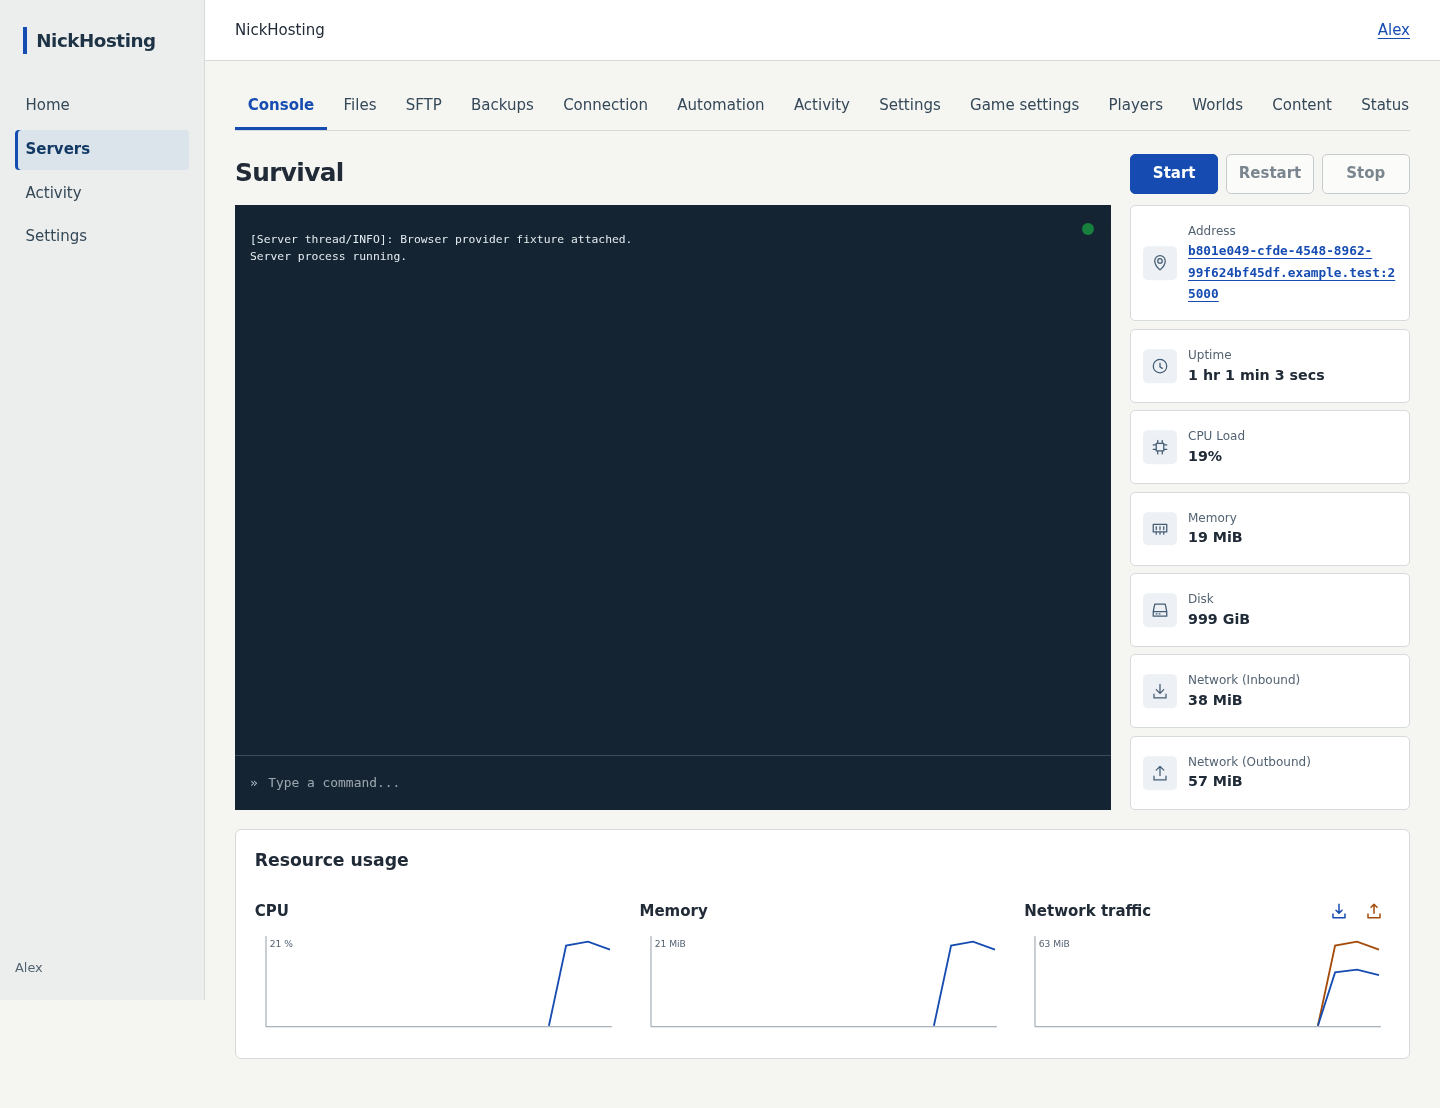
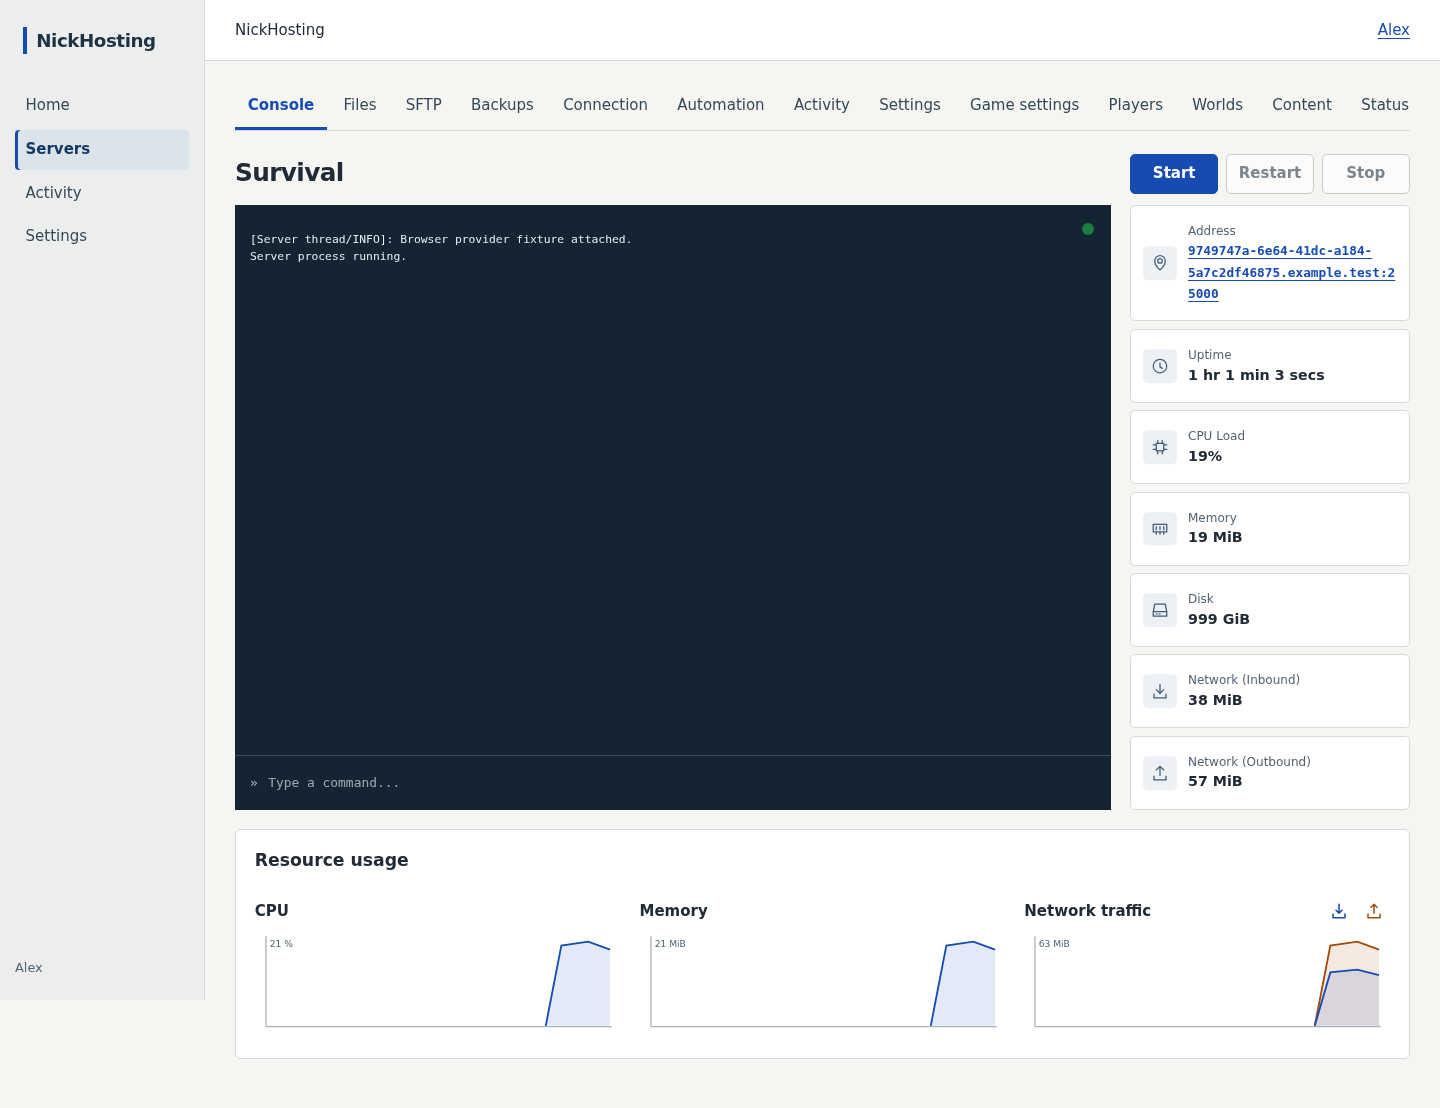
feat(web): shade chart areas and record power dispatch timings

diff --git a/apps/web/src/features/console.tsx b/apps/web/src/features/console.tsx
@@ -565,6 +565,41 @@ function Chart({
             : `${item.label}: ${t('service.noTelemetry')}`;
         })
         .join('; ');
+  // Both layers use the same continuous segments: missing samples must stay gaps.
+  const segments = offline
+    ? []
+    : series
+        .slice()
+        .reverse()
+        .flatMap((item) => {
+          const continuous: Array<Array<[number, number]>> = [];
+          let current: Array<[number, number]> = [];
+          let previous = firstTime;
+          for (const sample of item.values) {
+            if (!Number.isFinite(sample.value)) {
+              if (current.length) continuous.push(current);
+              current = [];
+              previous = sample.time;
+              continue;
+            }
+            if (sample.time - previous > 2500) {
+              if (current.length) continuous.push(current);
+              current = [];
+            }
+            current.push([
+              12 + ((sample.time - firstTime) / range) * 376,
+              108 - (sample.value / maximum) * 92,
+            ]);
+            previous = sample.time;
+          }
+          if (current.length) continuous.push(current);
+          return continuous.map((points, index) => ({
+            key: `${item.label}-${index}`,
+            points,
+            color: item.color,
+            direction: item.direction,
+          }));
+        });
   return (
     <figure className={`metric-chart${network ? ' network-chart' : ''}`}>
       <figcaption>
@@ -615,40 +650,25 @@ function Chart({
             strokeWidth="2"
           />
         )}
-        {!offline &&
-          series
-            .slice()
-            .reverse()
-            .map((item) => {
-              const segments: string[] = [];
-              let current = '';
-              let previous = firstTime;
-              for (const sample of item.values) {
-                if (!Number.isFinite(sample.value)) {
-                  if (current) segments.push(current);
-                  current = '';
-                  previous = sample.time;
-                  continue;
-                }
-                if (sample.time - previous > 2500) {
-                  if (current) segments.push(current);
-                  current = '';
-                }
-                current += `${current ? ' ' : ''}${12 + ((sample.time - firstTime) / range) * 376},${108 - (sample.value / maximum) * 92}`;
-                previous = sample.time;
-              }
-              if (current) segments.push(current);
-              return segments.map((points) => (
-                <polyline
-                  key={`${item.label}-${points}`}
-                  data-series={item.direction}
-                  points={points}
-                  fill="none"
-                  stroke={item.color}
-                  strokeWidth="2"
-                />
-              ));
-            })}
+        {segments.map(({ key, points, color, direction }) => (
+          <polygon
+            key={key}
+            data-series={direction}
+            points={`${points[0]?.[0]},108 ${points.map((point) => point.join(',')).join(' ')} ${points.at(-1)?.[0]},108`}
+            fill={color}
+            fillOpacity="0.12"
+          />
+        ))}
+        {segments.map(({ key, points, color, direction }) => (
+          <polyline
+            key={key}
+            data-series={direction}
+            points={points.map((point) => point.join(',')).join(' ')}
+            fill="none"
+            stroke={color}
+            strokeWidth="2"
+          />
+        ))}
         <text x="16" y="22" fill="#536372" fontSize="10">
           {format.number(maximum)} {unit}
         </text>

diff --git a/apps/web/tests/console-live-stats.browser.test.ts b/apps/web/tests/console-live-stats.browser.test.ts
@@ -91,6 +91,44 @@ describe('Console live resource stream', () => {
       },
     });
   }
+  async function assertAreaLayers() {
+    for (const chart of await user.locator('.metric-chart').all()) {
+      const layers = await chart.locator('polygon, polyline').evaluateAll((elements) =>
+        elements.map((element) => ({
+          tag: element.tagName,
+          points: element.getAttribute('points'),
+          series: element.getAttribute('data-series'),
+          fill: element.getAttribute('fill'),
+          stroke: element.getAttribute('stroke'),
+          fillOpacity: getComputedStyle(element).fillOpacity,
+          strokeOpacity: getComputedStyle(element).strokeOpacity,
+        })),
+      );
+      const areas = layers.filter((layer) => layer.tag === 'polygon');
+      const lines = layers.filter((layer) => layer.tag === 'polyline');
+      expect(areas.length).toBeGreaterThan(0);
+      expect(areas).toHaveLength(lines.length);
+      expect(layers.map((layer) => layer.tag)).toEqual([
+        ...areas.map(() => 'polygon'),
+        ...lines.map(() => 'polyline'),
+      ]);
+      for (const [index, line] of lines.entries()) {
+        const points = line.points?.split(' ') ?? [];
+        const area = areas[index];
+        expect(area?.points).toBe(
+          `${points[0]?.split(',')[0]},108 ${line.points} ${points.at(-1)?.split(',')[0]},108`,
+        );
+        expect(area?.fill).toBe(line.stroke);
+        expect(area?.fillOpacity).toBe('0.12');
+        expect(line.strokeOpacity).toBe('1');
+        expect(area?.points).not.toMatch(/NaN|undefined/);
+      }
+      if (lines.some((line) => line.series === 'inbound')) {
+        expect(lines.at(-1)?.series).toBe('inbound');
+        expect(areas.at(-1)?.series).toBe('inbound');
+      }
+    }
+  }
   it('updates stream metrics without per-second REST and ticks uptime using already-cached streamed disk', async () => {
     emit({ type: 'status', data: 'running' });
     stats(20);
@@ -126,10 +164,17 @@ describe('Console live resource stream', () => {
     const updatedPoints = await points();
     expect(updatedPoints).not.toEqual(beforeTick);
     expect(Number(updatedPoints.at(-1)?.split(' ').at(-1)?.split(',')[0])).toBe(388);
+    await assertAreaLayers();
     await user.screenshot({
       path: resolve('docs/screenshots/m5/console-live-stats-desktop-en.png'),
       fullPage: true,
     });
+    await user.setViewportSize({ width: 390, height: 844 });
+    await user.screenshot({
+      path: resolve('docs/screenshots/m5/console-live-stats-mobile-en.png'),
+      fullPage: true,
+    });
+    await user.setViewportSize({ width: 1440, height: 1000 });
   });
   it('does not fabricate missing stream fields and resets uptime after a new process', async () => {
     emit({ type: 'stats', data: { cpu_absolute: 22, memory_bytes: 1024, disk_bytes: 0 } });
@@ -148,6 +193,7 @@ describe('Console live resource stream', () => {
         '12,108 388,108',
       );
       await browserExpect(chart.locator('polyline:not([data-offline])')).toHaveCount(0);
+      await browserExpect(chart.locator('polygon')).toHaveCount(0);
     }
     await user.screenshot({
       path: resolve('docs/screenshots/m5/console-live-stats-offline-en.png'),

diff --git a/docs/M5-VALIDATION.md b/docs/M5-VALIDATION.md
@@ -3966,3 +3966,45 @@ latency reduction is claimed before an Owner-driven interaction; tests establish
 removed calls and nonblocking acceptance, not millisecond production guarantees.
 Rollback: revert code; existing runtime data needs no migration. PR #21 remains
 open/unmerged, and SFTPGo #18 remains unchanged.
+
+### 2026-10-11 — Chart area fills and Owner-driven power timing audit
+
+Charts now fill each continuous segment to the baseline in the series color at
+12% opacity. All fills precede all opaque strokes; blue inbound retains priority
+over amber outbound. Missing samples stay gaps and offline charts have no fill.
+Actual desktop/mobile screenshots were independently reviewed with no must-fix
+findings.
+
+Validation: `scripts/dev.sh pnpm exec tsx scripts/test-env.ts --m2 pnpm exec vitest run --config vitest.browser.config.ts apps/web/tests/console-live-stats.browser.test.ts`
+passed **3/3** (26.24s), covering fill geometry/layers, offline behavior, existing
+live statistics and accessibility. Web typecheck, scoped Biome and diff checks
+passed. No historical full suite rerun.
+
+Read-only dev worker logs and two exact operation-job timestamp reads establish
+the following boundaries for the Owner-driven 15:47 UTC Start and 15:49 UTC Stop:
+
+- Start: durable creation to worker receipt **59ms**; delivery age **6ms**.
+  Worker receipt to HTTP dispatch approximately **1.150s**; HTTP acknowledgement
+  another **350ms**. Initial parallel identity/resources checks took **323ms**,
+  physical sampling **273ms**, atomic admission **19ms**, and final authorization
+  wrapper **434ms** (including overlapping identity/runtime checks). These stage
+  durations overlap and must not be blindly summed.
+- The later Start confirmation delivery is not a second delayed Start dispatch.
+  Durable completion was **5.919s** after creation; HTTP acknowledgement had
+  already arrived **1.559s** after creation.
+- Stop: durable creation to worker receipt **52ms**; delivery age **3ms**.
+  Worker receipt to HTTP dispatch approximately **1.158s**, HTTP acknowledgement
+  another **400ms**, followed by **1.039s** terminal confirmation. Durable
+  completion was **3.045s** after creation.
+
+No browser click/API-ingress timestamp or individual console-command timing was
+available for this interaction. These measurements do not establish complete
+click-to-command latency or game readiness. Power still uses the durable Client
+HTTP path; console WebSocket reuse does not change that power transport. The
+remaining pre-dispatch work is provider identity, resource admission and final
+authorization, rather than a multi-second Redis queue. No JAR download/hash is
+part of this power path. No new backend optimization is claimed from this audit.
+
+No live commands, server mutations, container restarts or infrastructure changes
+were performed. Rollback: revert chart source; no migration/data change. PR #21
+remains open/unmerged; SFTPGo #18 remains unchanged.
